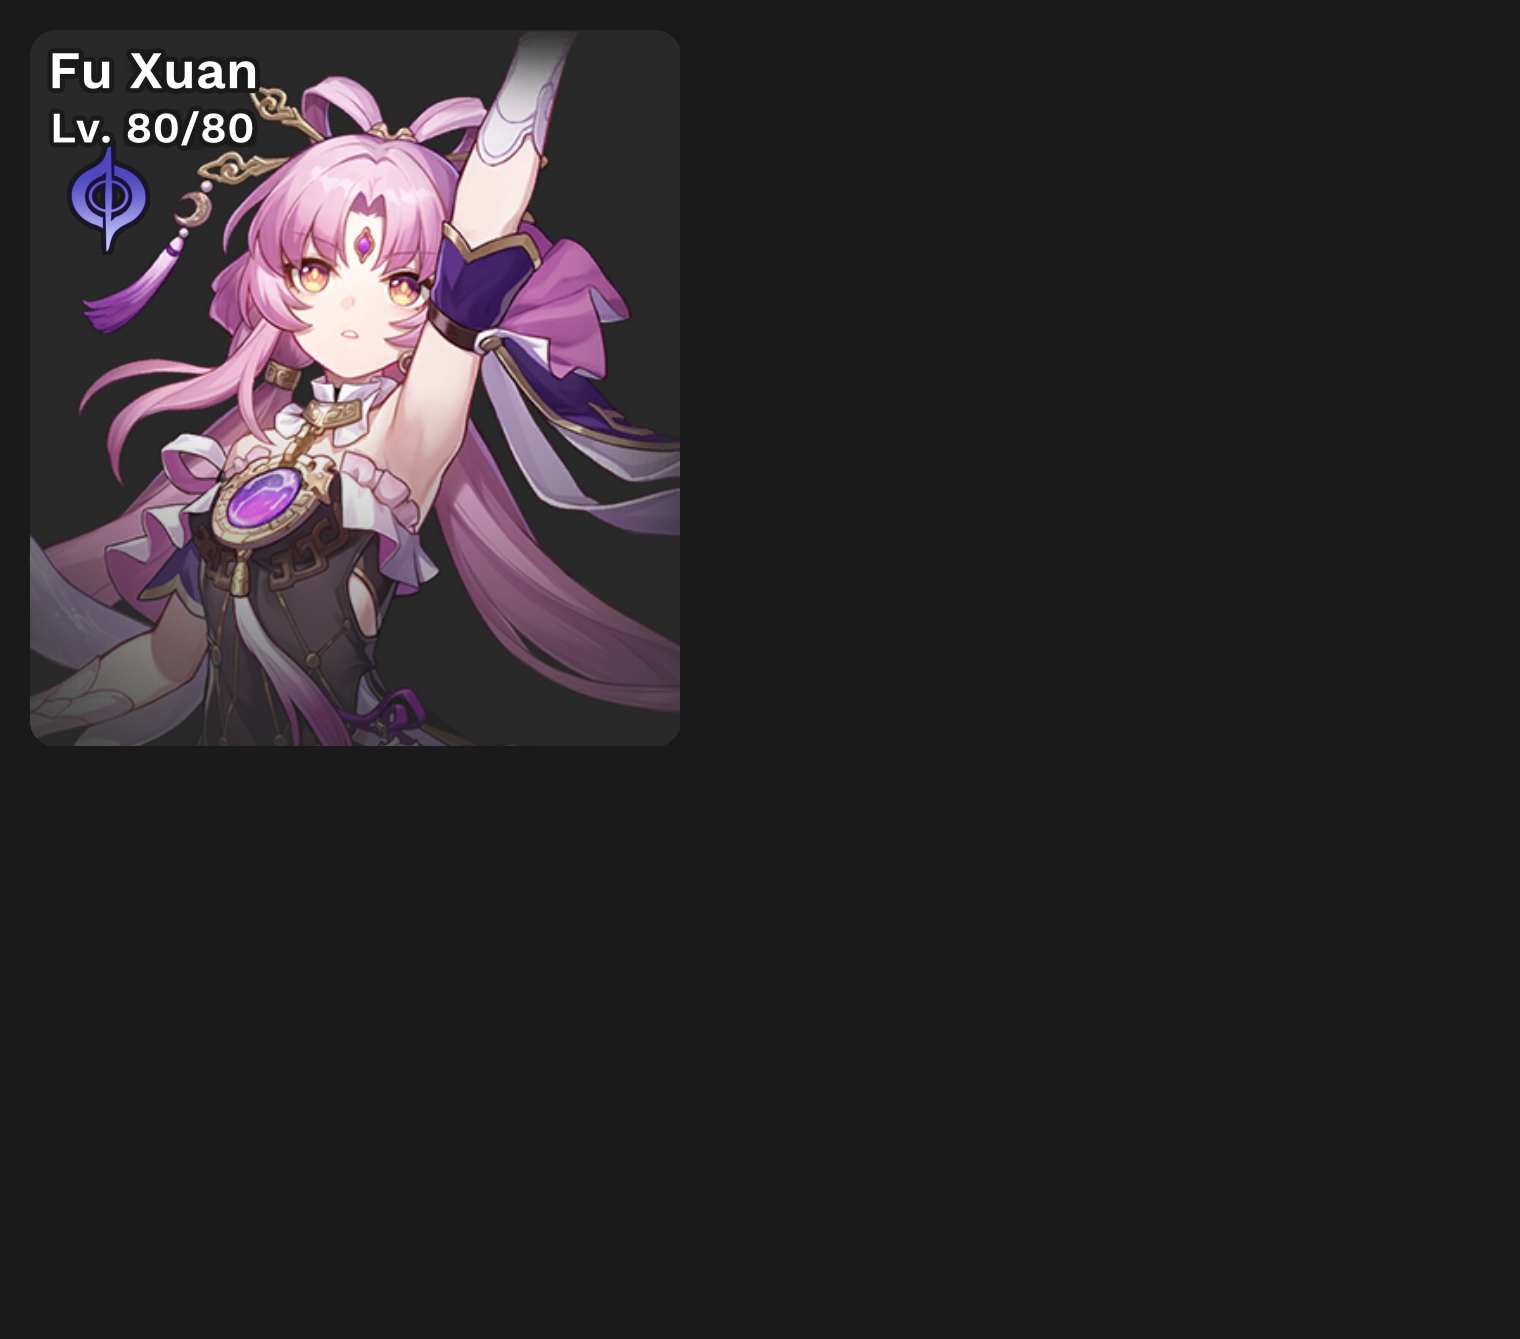
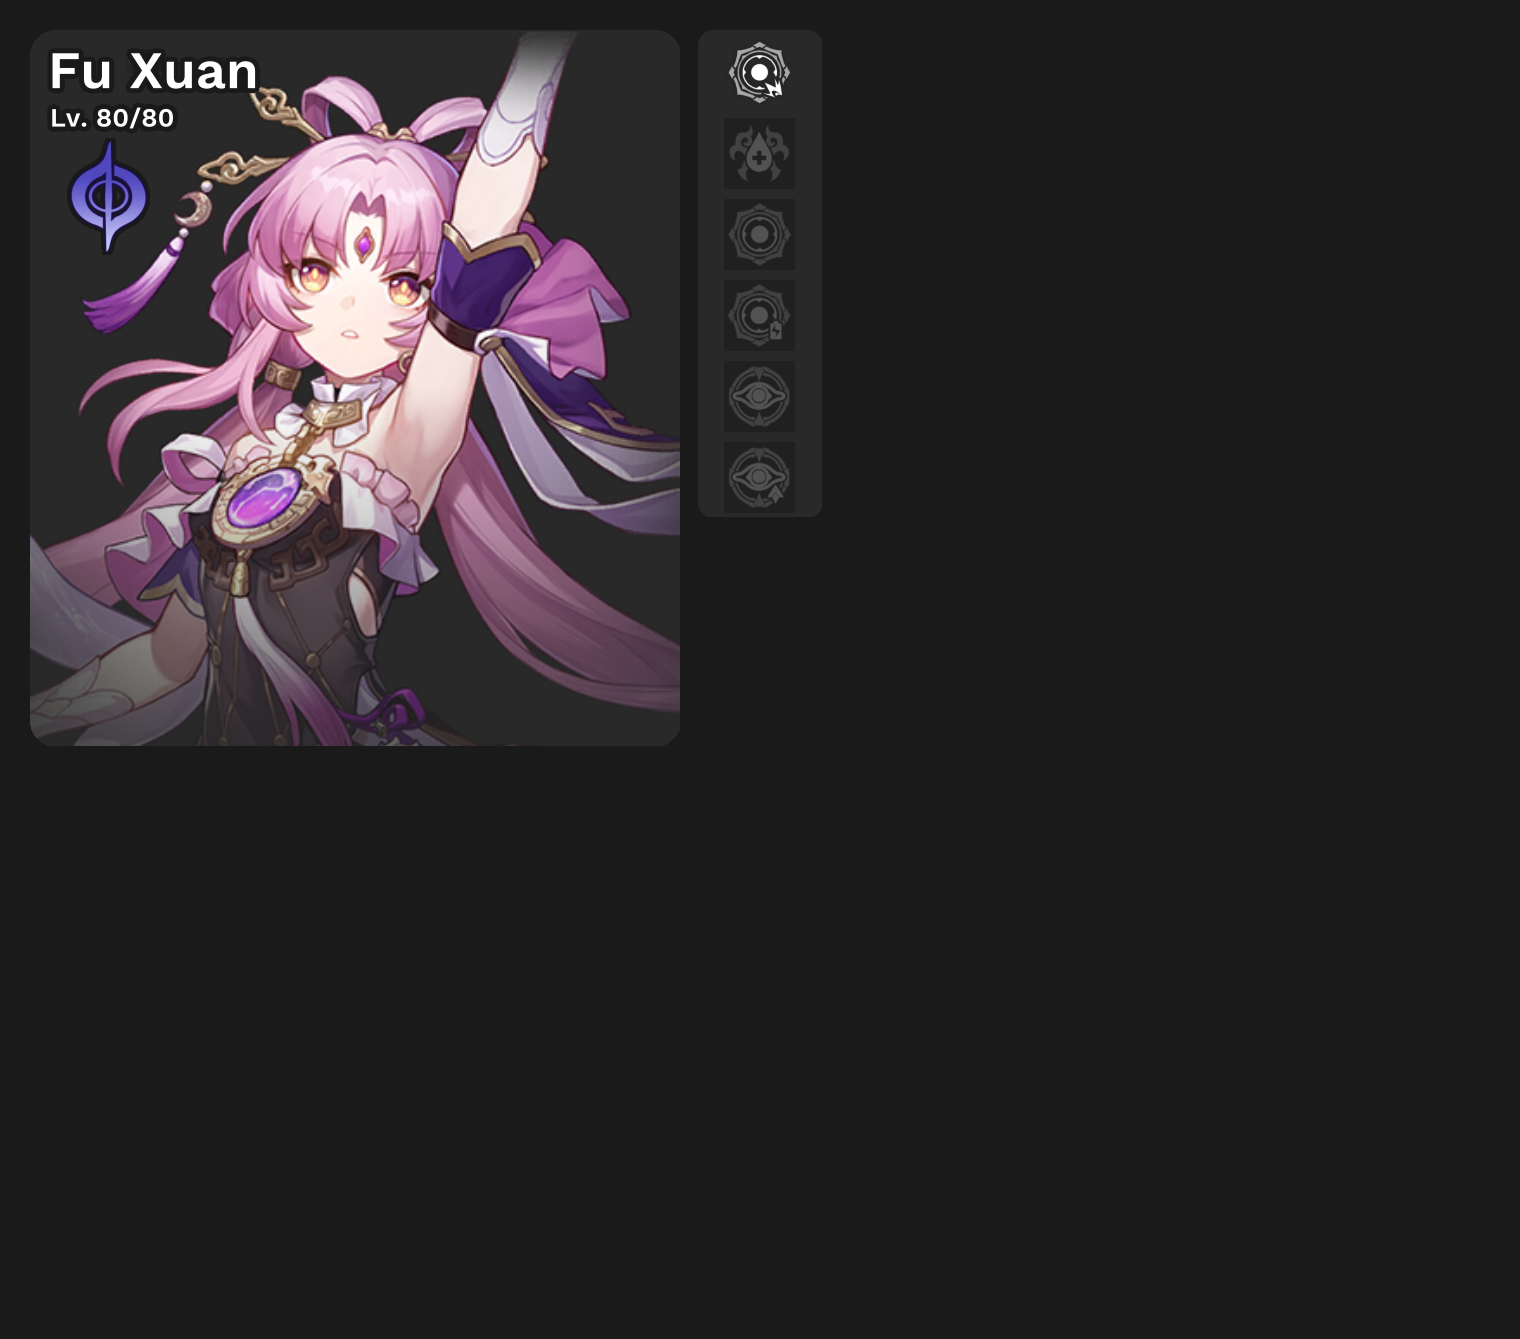
eidolon

Changed region(s): [[0.4638, 0.0306, 0.5257, 0.3981], [0.0309, 0.0612, 0.1546, 0.1225]]

diff --git a/src/card_gen/char_rank.rs b/src/card_gen/char_rank.rs
@@ -1,0 +1,42 @@
+use crate::utils::draw_blocks::{draw_light_block, draw_rounded_mask};
+use crate::utils::fetch_img::{get_full_asset_url, get_img_from_url};
+use image::{Rgba, RgbaImage, imageops::overlay as ops_overlay};
+use mihomo4::CharacterData;
+use std::error::Error;
+use crate::utils::img_size_manip::resize_to_fit;
+use crate::utils::mask::apply_mask;
+
+pub async fn render(img: &mut RgbaImage, ch: &CharacterData) -> Result<(), Box<dyn Error>> {
+    let mut rank_bar = draw_light_block(124, 487);
+
+    for (i, icon_url) in ch.rank_icons.iter().enumerate() {
+        let rank_img = get_img_from_url(&get_full_asset_url(icon_url)).await?;
+        let rank_resized = resize_to_fit(&rank_img, 71, 71, image::imageops::FilterType::Triangle);
+        let rank_resized = rank_resized.to_rgba8();
+
+        let to_paste = if i < ch.rank.into() {
+            rank_resized
+        } else {
+            let mut overlay = RgbaImage::new(71, 71);
+            for (x, y, pixel) in rank_resized.enumerate_pixels() {
+                let new_pixel = Rgba([pixel[0], pixel[1], pixel[2], 50]);
+                overlay.put_pixel(x, y, new_pixel);
+            }
+            overlay
+        };
+
+        let x_offset = 26;
+        let y_offset = 7 + i * (71 + 10);
+        ops_overlay(&mut rank_bar, &to_paste, x_offset as i64, y_offset as i64);
+    }
+
+    let rank_bar_mask = draw_rounded_mask((rank_bar.width(), rank_bar.height()), 15);
+    apply_mask(&mut rank_bar, &rank_bar_mask);
+
+    let x_position = 30 + 650 + 18;
+    let y_position = 30;
+
+    ops_overlay(img, &rank_bar, x_position as i64, y_position as i64);
+
+    Ok(())
+}

diff --git a/src/card_gen/mod.rs b/src/card_gen/mod.rs
@@ -5,6 +5,7 @@ use mihomo4::{CharacterData, PlayerData};
 use std::error::Error;
 
 mod char_img;
+mod char_rank;
 
 pub async fn create_card(
     ch: &CharacterData,
@@ -14,9 +15,13 @@ pub async fn create_card(
     let mut img = draw_dark_block(1520, 1339);
     let font = get_font();
 
-    println!("Rendering: {}", &ch.name);
+    println!("->> Rendering: {}", &ch.name);
+    println!("->> Character Potrait");
     char_img::render(&mut img, ch, img_url, &font).await?;
-    render_rank(&mut img, ch, &font);
+
+    println!("->> Character Rank");
+    char_rank::render(&mut img, ch).await?;
+
     render_skill(&mut img, ch, &font);
     render_path(&mut img, ch, &font);
     render_user(&mut img, plr, &font);
@@ -27,7 +32,6 @@ pub async fn create_card(
     Ok(DynamicImage::ImageRgba8(img))
 }
 
-fn render_rank(_img: &mut RgbaImage, _ch: &CharacterData, _font: &impl ab_glyph::Font) {}
 fn render_skill(_img: &mut RgbaImage, _ch: &CharacterData, _font: &impl ab_glyph::Font) {}
 fn render_path(_img: &mut RgbaImage, _ch: &CharacterData, _font: &impl ab_glyph::Font) {}
 fn render_user(_img: &mut RgbaImage, _plr: &PlayerData, _font: &impl ab_glyph::Font) {}

diff --git a/src/utils/blend_alpha.rs b/src/utils/blend_alpha.rs
@@ -1,0 +1,33 @@
+use image::Rgba;
+
+pub fn blend_image_pixel(bg: Rgba<u8>, fg: Rgba<u8>) -> Rgba<u8> {
+    let alpha_fg = fg[3] as f32 / 255.0;
+    let alpha_bg = bg[3] as f32 / 255.0;
+
+    let out_alpha = alpha_fg + alpha_bg * (1.0 - alpha_fg);
+    
+    let out_r = if out_alpha > 0.0 {
+        ((fg[0] as f32 * alpha_fg) + (bg[0] as f32 * alpha_bg * (1.0 - alpha_fg))) / out_alpha
+    } else {
+        0.0
+    };
+
+    let out_g = if out_alpha > 0.0 {
+        ((fg[1] as f32 * alpha_fg) + (bg[1] as f32 * alpha_bg * (1.0 - alpha_fg))) / out_alpha
+    } else {
+        0.0
+    };
+
+    let out_b = if out_alpha > 0.0 {
+        ((fg[2] as f32 * alpha_fg) + (bg[2] as f32 * alpha_bg * (1.0 - alpha_fg))) / out_alpha
+    } else {
+        0.0
+    };
+
+    Rgba([
+        out_r.min(255.0) as u8,
+        out_g.min(255.0) as u8,
+        out_b.min(255.0) as u8,
+        (out_alpha * 255.0).min(255.0) as u8,
+    ])
+}

diff --git a/src/card_gen/char_img.rs b/src/card_gen/char_img.rs
@@ -71,7 +71,7 @@ pub async fn render(
 
     let ch_lv_txt = format!("Lv. {}/{}", ch.level, ch.max_level());
     let ch_lv_txt_pos = (20, 72);
-    let ch_lv_txt_scale = PxScale::from(51.0);
+    let ch_lv_txt_scale = PxScale::from(31.0);
 
     // draw lvl
     draw_text_with_outline(

diff --git a/src/asset_n_cfg/font.rs b/src/asset_n_cfg/font.rs
@@ -1,5 +1,4 @@
 use ab_glyph::FontRef;
-use ab_glyph::{Font, PxScale};
 
 pub fn get_font<'a>() -> FontRef<'a> {
     FontRef::try_from_slice(&WORK_SANS_SEMI_BOLD_TTF).expect("This should never happen")

diff --git a/src/main.rs b/src/main.rs
@@ -3,9 +3,7 @@ mod asset_n_cfg;
 mod card_gen;
 mod utils;
 
-use asset_n_cfg::*;
-use card_gen::*;
-use utils::*;
+use card_gen::create_card;
 
 use mihomo4::*;
 

diff --git a/src/utils/mod.rs b/src/utils/mod.rs
@@ -1,3 +1,4 @@
+pub mod blend_alpha;
 pub mod draw_blocks;
 pub mod fetch_img;
 pub mod img_size_manip;
